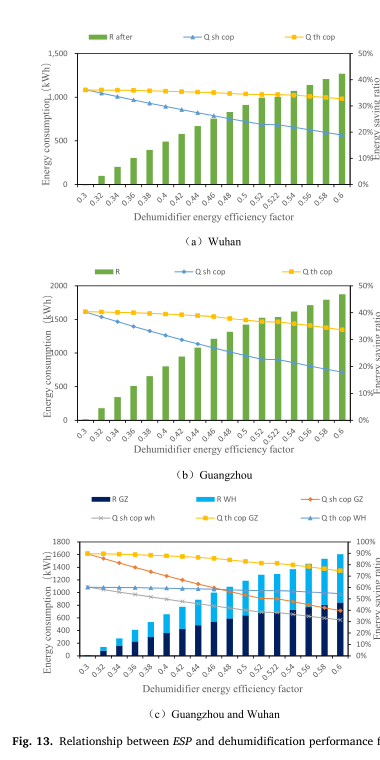
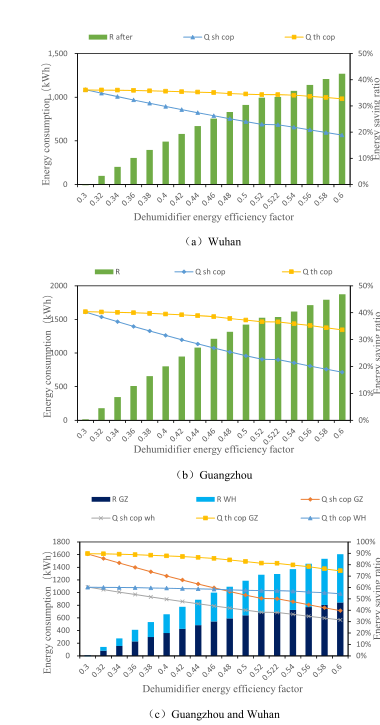
fix: preserve editorial lists and language sync

diff --git a/static/js/scripts.js b/static/js/scripts.js
@@ -47,14 +47,14 @@ const i18n = {
         heroSecondaryLink: 'Contact',
         topSectionBgText: 'Climate-responsive buildings, HVAC intelligence, and urban energy modeling',
         profileLabel: 'Profile',
-        codingLabel: 'Live GitHub Activity',
+        codingLabel: 'Official GitHub Activity',
         codingHeading: 'Small proofs, stacked every day.',
         codingDaysLabel: 'coding days',
         codingTitle: 'Coding',
         codingYearLabel: 'Year',
         codingLessLabel: 'Less',
         codingMoreLabel: 'More',
-        githubLabel: 'Live GitHub Activity',
+        githubLabel: 'Official GitHub Activity',
         githubKicker: 'Synchronized from GitHub public data',
         githubTitle: 'Open-source work and recent repository activity',
         githubProfileCta: 'View GitHub',
@@ -110,14 +110,14 @@ const i18n = {
         heroSecondaryLink: '联系方式',
         topSectionBgText: '气候响应型建筑、HVAC 智能化与城市能源建模',
         profileLabel: '个人简介',
-        codingLabel: 'GitHub 实时动态',
+        codingLabel: 'GitHub 官方贡献',
         codingHeading: '日积跬步，持续构建。',
         codingDaysLabel: '个编程日',
         codingTitle: '编程活动',
         codingYearLabel: '年份',
         codingLessLabel: '较少',
         codingMoreLabel: '较多',
-        githubLabel: 'GitHub 实时动态',
+        githubLabel: 'GitHub 官方贡献',
         githubKicker: '同步自 GitHub 公开数据',
         githubTitle: '开源工作与近期仓库更新',
         githubProfileCta: '打开 GitHub',
@@ -788,7 +788,7 @@ function decorateExternalLinks(section) {
 }
 
 function decorateListItems(section, className) {
-    section.querySelectorAll('li').forEach((item, index) => {
+    section.querySelectorAll(':scope > ul > li, :scope > ol > li').forEach((item, index) => {
         item.classList.add(className, 'spotlight-card');
         item.style.setProperty('--reveal-delay', `${Math.min(index * 55, 420)}ms`);
     });
@@ -1185,4 +1185,5 @@ window.addEventListener('DOMContentLoaded', async () => {
     await loadPageMarkdown();
     setupSpotlightCards(document);
     setupReveals(document);
+    window.dispatchEvent(new CustomEvent('site-language-change', { detail: { lang: currentLang } }));
 });

diff --git a/tests/site-structure.test.js b/tests/site-structure.test.js
@@ -37,6 +37,8 @@ test('each route owns only its intended Markdown target', () => {
 test('homepage contains Coding and no interior long-scroll sections', () => {
     const html = fs.readFileSync('index.html', 'utf8');
     assert.match(html, /data-coding-activity/);
+    assert.match(html, />Official GitHub Activity</);
+    assert.doesNotMatch(html, />Live GitHub Activity</);
     assert.doesNotMatch(html, /id="research"/);
     assert.doesNotMatch(html, /id="publications"/);
     assert.doesNotMatch(html, /id="news"/);
@@ -51,6 +53,7 @@ test('shared script is route-aware and uses root-relative content paths', () => 
     assert.match(script, /new CustomEvent\('site-language-change'/);
     assert.doesNotMatch(script, /await loadAllMarkdown\(\)/);
     assert.match(script, /localStorage\.setItem\('site-language', requestedLang\)/);
+    assert.match(script, /setupReveals\(document\);\s*window\.dispatchEvent\(new CustomEvent\('site-language-change'/);
 });
 
 test('shared styles define fixed active navigation and accessible Coding motion', () => {
@@ -105,4 +108,9 @@ test('editorial styles unify navigation type and responsive story layouts', () =
     assert.match(css, /\.news-feature\s*\{[^}]*display:\s*grid;[^}]*grid-template-columns:/s);
     assert.match(css, /\.story-details summary:focus-visible\s*\{[^}]*outline:/s);
     assert.match(css, /@media screen and \(max-width: 991px\)[\s\S]*?\.research-story,[\s\S]*?\.news-feature\s*\{[^}]*grid-template-columns:\s*1fr;/);
+});
+
+test('legacy list decoration does not overwrite structured editorial lists', () => {
+    const script = fs.readFileSync('static/js/scripts.js', 'utf8');
+    assert.match(script, /querySelectorAll\(':scope > ul > li, :scope > ol > li'\)/);
 });

diff --git a/index.html b/index.html
@@ -137,7 +137,7 @@
             <div class="container px-4 px-lg-5">
                 <div class="coding-heading">
                     <div>
-                        <span id="coding-label" class="section-label">Live GitHub Activity</span>
+                        <span id="coding-label" class="section-label">Official GitHub Activity</span>
                         <h2 id="coding-heading">Small proofs, stacked every day.</h2>
                     </div>
                     <div class="coding-summary"><strong data-coding-days>--</strong><span id="coding-days-label">coding days</span></div>